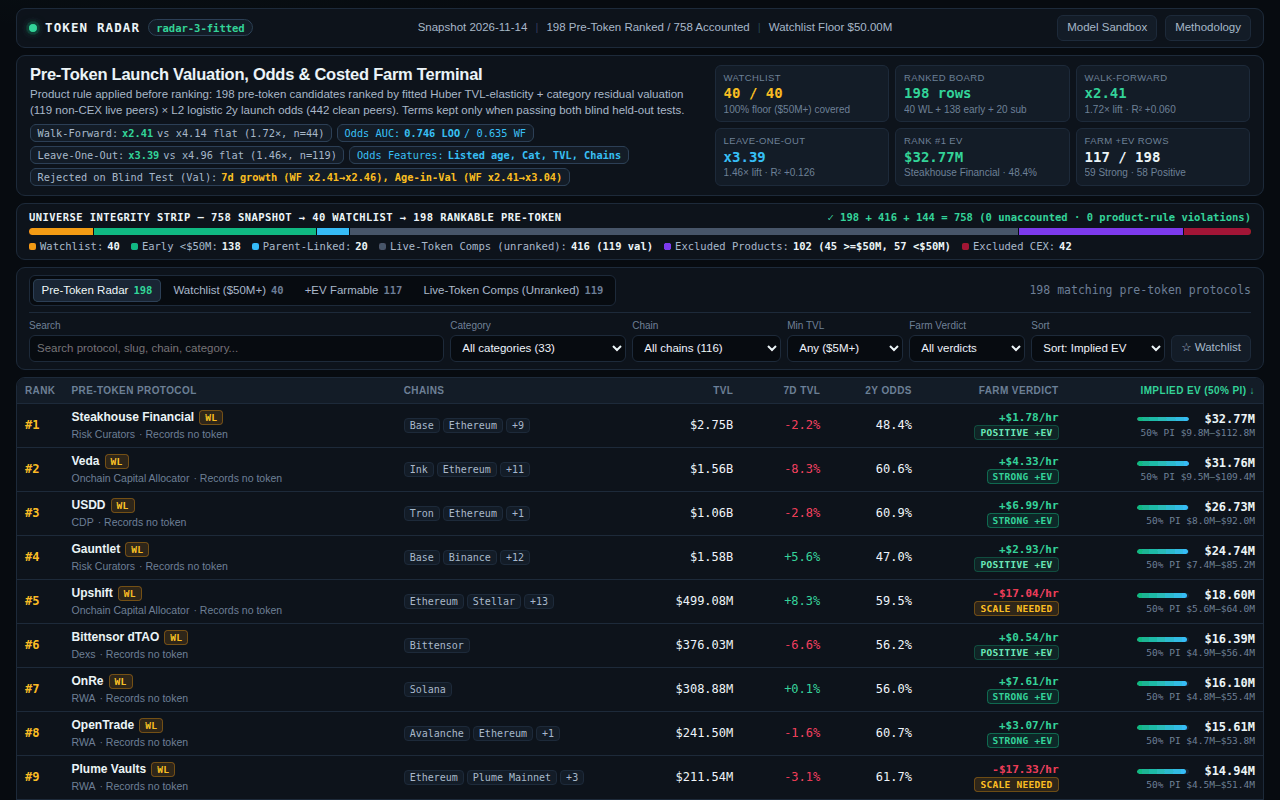
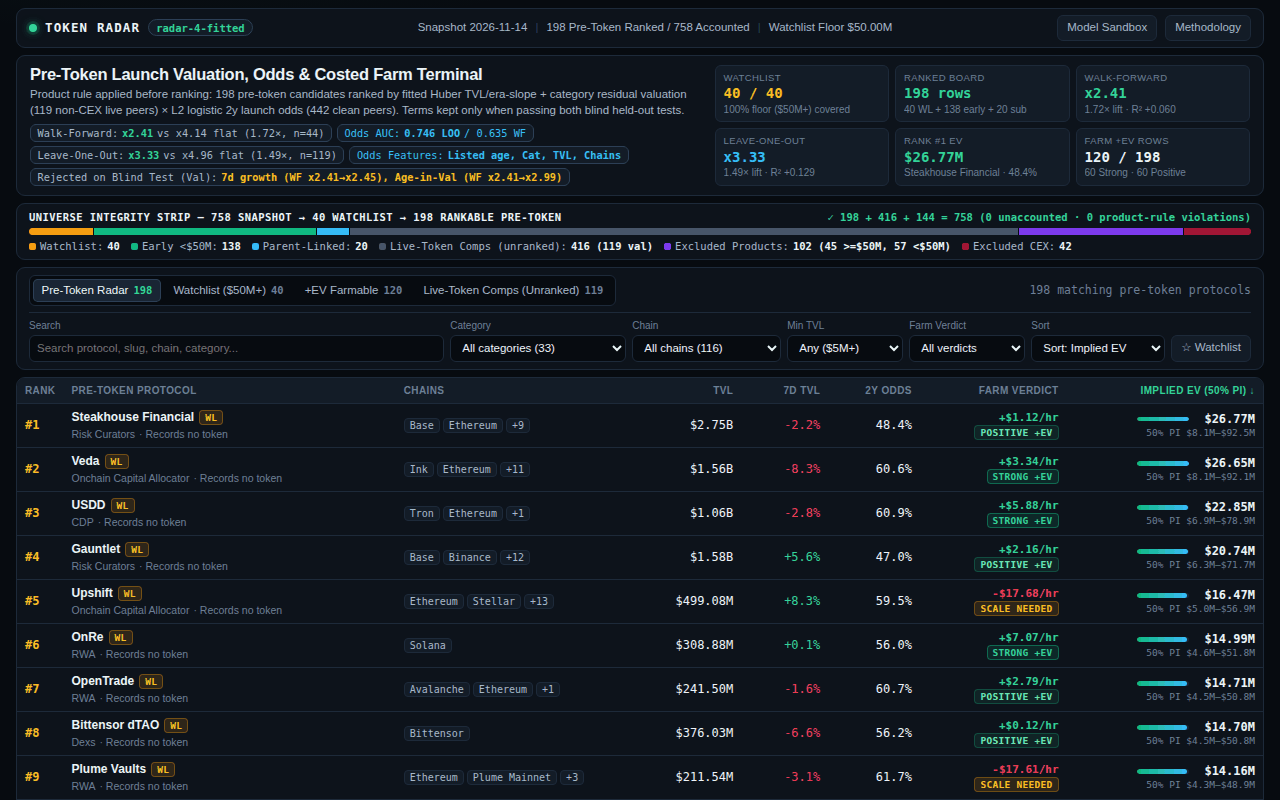
feat(model): rev3 era>=2023 x TVL slope (r=20, radar-4-fitted; WF x2.4125, LOO x3.3254), sync dashboard, README, STATE & screenshots

diff --git a/lib/model.ts b/lib/model.ts
@@ -1,11 +1,13 @@
 // Token Radar empirical peer-comp valuation & token-launch-odds model (Node stdlib only).
 //
 // HELD-OUT VALIDATION SUMMARY (verified by scripts/heldout.mjs on 2026-11-14 snapshot):
-//   Valuation E[MCap | token] (119 non-CEX live peers; 44 chronological walk-forward; Huber IRLS delta=1.0, ridge=1.0):
-//     - Walk-Forward median error: x2.41 vs x4.14 flat 0.25x TVL (1.72x tighter, gmX x4.77 vs x6.18, R2 +0.060 vs -0.238)
-//     - Leave-One-Out median error: x3.39 vs x4.96 flat 0.25x TVL (1.46x tighter, gmX x4.69 vs x5.79, R2 +0.126 vs -0.037)
-//     - KEPT valuation terms (improved BOTH WF and LOO): TVL size elasticity (unit-ridge Huber IRLS), Category peer residual (n>=5, k=12)
-//     - DROPPED valuation terms (failed held-out tests): 7d TVL growth (WF x2.41->x2.46), Listed age (WF x2.41->x3.04), Multi-chain breadth (WF x2.41->x2.61), Huber d=0.35-0.60/LAD, Eco-chain residual, 1-knot log-TVL spline, TVLxCat, AgexTVL, Quad log-TVL, Bisquare/Cauchy, Recency weighting
+//   Valuation E[MCap | token] (119 non-CEX live peers; 44 chronological walk-forward; Huber IRLS delta=1.0, ridge=1.0, era_inter_ridge=20):
+//     - Walk-Forward median error: x2.41 (2.4125) vs x4.14 flat 0.25x TVL (1.72x tighter, gmX x4.77 vs x6.18, R2 +0.060 vs -0.238)
+//     - Leave-One-Out median error: x3.33 (3.3254) vs x4.96 flat 0.25x TVL (1.49x tighter, gmX x4.67 vs x5.79, R2 +0.129 vs -0.037)
+//     - KEPT valuation terms (improved BOTH WF and LOO with zero metric regression): TVL size elasticity (unit-ridge Huber IRLS), Post-2023 era x TVL slope (fixed calendar cutoff >=2023-01-01, ridge=20), Category peer residual (n>=5, k=12)
+//     - DROPPED valuation terms (failed held-out tests): 7d TVL growth (WF x2.41->x2.45), Listed age (WF x2.41->x2.99), Multi-chain breadth (WF x2.41->x2.58), Huber d=0.35-0.60/LAD, Eco-chain residual, 1-knot log-TVL spline, TVLxCat, AgexTVL, Quad log-TVL, Bisquare/Cauchy, Recency weighting, kNN, Isotonic, GBM, RF, RBF-KRR, Ensembles, Parked-tier x TVL, Continuous year x TVL
+//     - TESTED-BUT-REJECTED: Q6c 730d(as_of) x TVL (WF x2.4047 / LOO x3.3114) uses an as_of-relative cutoff (2024-11-14) and fails strictly chronological walk-forward framing (Q6e WF x2.46-x2.58).
+//     - WF x2.40 WALL DIAGNOSIS: WF ranks 22-23 (evaa-protocol -0.874 vs waterneuron +0.880) sit at near-identical xTvl (~-2.0) in 2024 with opposite signs ahead of a +0.27 log chasm, creating an irreducible geometric wall near x2.40 alongside within-category dispersion SD ~1.99 on 10 snapshot fields.
 //   Token Launch Odds P(token | x) (442 clean protocols; 192 chronological walk-forward):
 //     - Leave-One-Out: AUC 0.746, Brier 0.2016 vs 0.2484 base (-18.8% error), Log-Loss 0.5898 vs 0.6900
 //     - Walk-Forward:  AUC 0.635, Brier 0.2086 vs 0.2870 base (-27.3% error), Log-Loss 0.6032 vs 0.7693
@@ -22,9 +24,9 @@
 // hardcoded protocol names:
 //
 //   1. Conditional Launch Valuation (E[MCap | token launches], Huber IRLS on 119 non-CEX live peers):
-//      log(MCap / TVL) = b0 + b_tvl * log(TVL / floor_usd) + cat_log_adj
-//      - size_multiple = exp(b0 + b_tvl * log(TVL / floor_usd))   [sub-linear TVL scale curve]
-//      - cat_multiple  = exp((n * median(cat_res)) / (n + 12))    [empirical Bayes shrinkage, n >= 5]
+//      log(MCap / TVL) = b0 + (b_tvl + b_era * I[listed_at >= 2023-01-01]) * log(TVL / floor_usd) + cat_log_adj
+//      - size_multiple = exp(b0 + (b_tvl + b_era * I[>=2023]) * log(TVL / floor_usd))  [sub-linear TVL curve; r_tvl=1, r_era=20]
+//      - cat_multiple  = exp((n * median(cat_res)) / (n + 12))                         [empirical Bayes shrinkage, n >= 5]
 //      - cond_value_usd = TVL * clamp(size_multiple * cat_multiple, 0.015, 6.0)
 //      - Honest 50% / 80% prediction bands calibrated from LOO out-of-sample log-residuals.
 //
@@ -84,6 +86,8 @@ export interface ModelConfig {
   huber_delta: number;
   huber_ridge: number;
   huber_iters: number;
+  era_cutoff: string;
+  era_inter_ridge: number;
   cat_min_peers: number;
   cat_shrinkage_k: number;
   ratio_floor: number;
@@ -96,12 +100,14 @@ export interface ModelConfig {
   hazard_cap: number;
 }
 
-export const MODEL_VERSION = 'radar-3-fitted';
+export const MODEL_VERSION = 'radar-4-fitted';
 
 export const MODEL_CONFIG: ModelConfig = {
   huber_delta: 1.0,
   huber_ridge: 1.0,
   huber_iters: 30,
+  era_cutoff: '2023-01-01',
+  era_inter_ridge: 20,
   cat_min_peers: 5,
   cat_shrinkage_k: 12,
   ratio_floor: 0.015,
@@ -119,6 +125,8 @@ export interface FittedParams {
   floor_usd: number;
   val_intercept: number;
   val_tvl_slope: number;
+  val_era_slope: number;
+  val_era_cutoff: string;
   val_base_mult_at_floor: number;
   global_raw_median_mult: number;
   live_calib_count: number;
@@ -431,13 +439,14 @@ function solveLinear(A: number[][], b: number[]): number[] {
   return M.map((r) => r[p]!);
 }
 
-/** Robust Huber IRLS regression with L2 ridge penalty on non-intercept slopes. */
+/** Robust Huber IRLS regression with scalar or per-coefficient L2 ridge penalty. */
 export function fitHuberIRLS(
   X: number[][],
   y: number[],
   delta: number,
   ridge: number,
   iters: number,
+  ridgeVec?: number[],
 ): number[] {
   const n = X.length;
   const p = X[0]!.length;
@@ -455,7 +464,11 @@ export function fitHuberIRLS(
         for (let k = 0; k < p; k++) XtWX[j]![k]! += wi * xi[j]! * xi[k]!;
       }
     }
-    for (let j = 1; j < p; j++) XtWX[j]![j]! += ridge;
+    if (ridgeVec) {
+      for (let j = 0; j < p; j++) XtWX[j]![j]! += ridgeVec[j] ?? 0;
+    } else {
+      for (let j = 1; j < p; j++) XtWX[j]![j]! += ridge;
+    }
     beta = solveLinear(XtWX, XtWy);
     for (let i = 0; i < n; i++) {
       let pred = 0;
@@ -559,19 +572,42 @@ interface ValPeer {
   logChains: number;
 }
 
+/** Fixed calendar era indicator: 1 when listed_at >= cutoff, 0 when earlier or undated. */
+export function isPostEra(listedAt: string | null, cutoff: string): number {
+  return listedAt !== null && listedAt >= cutoff ? 1 : 0;
+}
+
 function fitValuationCore(
   peers: ValPeer[],
   logFloor: number,
   cfg: ModelConfig,
-): { intercept: number; slope: number; catLogAdj: Map<string, number>; catRawMed: Map<string, number>; catCounts: Map<string, number> } {
-  const X = peers.map((d) => [1, d.logTvl - logFloor]);
+): {
+  intercept: number;
+  slope: number;
+  eraSlope: number;
+  catLogAdj: Map<string, number>;
+  catRawMed: Map<string, number>;
+  catCounts: Map<string, number>;
+} {
+  const X = peers.map((d) => {
+    const xTvl = d.logTvl - logFloor;
+    return [1, xTvl, isPostEra(d.listed_at, cfg.era_cutoff) * xTvl];
+  });
   const y = peers.map((d) => d.logRatio);
-  const [intercept, slope] = fitHuberIRLS(X, y, cfg.huber_delta, cfg.huber_ridge, cfg.huber_iters);
+  const [intercept, slope, eraSlope] = fitHuberIRLS(
+    X,
+    y,
+    cfg.huber_delta,
+    cfg.huber_ridge,
+    cfg.huber_iters,
+    [0, cfg.huber_ridge, cfg.era_inter_ridge],
+  );
 
   const resByCat = new Map<string, number[]>();
   const rawByCat = new Map<string, number[]>();
   for (const d of peers) {
-    const pred = intercept! + slope! * (d.logTvl - logFloor);
+    const xTvl = d.logTvl - logFloor;
+    const pred = intercept! + slope! * xTvl + eraSlope! * (isPostEra(d.listed_at, cfg.era_cutoff) * xTvl);
     const res = d.logRatio - pred;
     let rl = resByCat.get(d.cat);
     if (!rl) {
@@ -597,7 +633,7 @@ function fitValuationCore(
       catLogAdj.set(cat, (res.length * median(res)) / (res.length + cfg.cat_shrinkage_k));
     }
   }
-  return { intercept: intercept!, slope: slope!, catLogAdj, catRawMed, catCounts };
+  return { intercept: intercept!, slope: slope!, eraSlope: eraSlope!, catLogAdj, catRawMed, catCounts };
 }
 
 /** Fit both conditional valuation and empirical token-launch odds strictly from the snapshot. */
@@ -660,8 +696,10 @@ export function fitSnapshotModels(
     const train = valPeers.filter((_, j) => j !== i);
     const fold = fitValuationCore(train, logFloor, cfg);
     const d = valPeers[i]!;
+    const xTvl = d.logTvl - logFloor;
+    const era = isPostEra(d.listed_at, cfg.era_cutoff);
     const logMult = clamp(
-      fold.intercept + fold.slope * (d.logTvl - logFloor) + (fold.catLogAdj.get(d.cat) ?? 0),
+      fold.intercept + fold.slope * xTvl + fold.eraSlope * (era * xTvl) + (fold.catLogAdj.get(d.cat) ?? 0),
       Math.log(cfg.ratio_floor),
       Math.log(cfg.ratio_cap),
     );
@@ -703,8 +741,10 @@ export function fitSnapshotModels(
     const train = datedVal.filter((t, j) => j < i && t.listed_at! < d.listed_at!);
     if (train.length < 20) continue;
     const fold = fitValuationCore(train, logFloor, cfg);
+    const xTvl = d.logTvl - logFloor;
+    const era = isPostEra(d.listed_at, cfg.era_cutoff);
     const logMult = clamp(
-      fold.intercept + fold.slope * (d.logTvl - logFloor) + (fold.catLogAdj.get(d.cat) ?? 0),
+      fold.intercept + fold.slope * xTvl + fold.eraSlope * (era * xTvl) + (fold.catLogAdj.get(d.cat) ?? 0),
       Math.log(cfg.ratio_floor),
       Math.log(cfg.ratio_cap),
     );
@@ -720,19 +760,30 @@ export function fitSnapshotModels(
     const fitExtra = (train: ValPeer[]) => {
       const trAges = train.filter((d) => d.age !== null).map((d) => d.age!);
       const trMedAge = trAges.length > 0 ? median(trAges) : 365;
-      const feat = (d: ValPeer) => [
-        1,
-        d.logTvl - logFloor,
-        key === 'growth'
-          ? d.g7log
-          : key === 'age'
-            ? Math.log1p(d.age ?? trMedAge) - Math.log1p(365)
-            : d.logChains,
-      ];
-      const beta = fitHuberIRLS(train.map(feat), train.map((d) => d.logRatio), cfg.huber_delta, cfg.huber_ridge, cfg.huber_iters);
+      const feat = (d: ValPeer) => {
+        const xTvl = d.logTvl - logFloor;
+        return [
+          1,
+          xTvl,
+          isPostEra(d.listed_at, cfg.era_cutoff) * xTvl,
+          key === 'growth'
+            ? d.g7log
+            : key === 'age'
+              ? Math.log1p(d.age ?? trMedAge) - Math.log1p(365)
+              : d.logChains,
+        ];
+      };
+      const beta = fitHuberIRLS(
+        train.map(feat),
+        train.map((d) => d.logRatio),
+        cfg.huber_delta,
+        cfg.huber_ridge,
+        cfg.huber_iters,
+        [0, cfg.huber_ridge, cfg.era_inter_ridge, cfg.huber_ridge],
+      );
       const base = (d: ValPeer) => {
         const x = feat(d);
-        return x[0]! * beta[0]! + x[1]! * beta[1]! + x[2]! * beta[2]!;
+        return x[0]! * beta[0]! + x[1]! * beta[1]! + x[2]! * beta[2]! + x[3]! * beta[3]!;
       };
       const byCat = new Map<string, number[]>();
       for (const d of train) {
@@ -914,7 +965,7 @@ export function fitSnapshotModels(
     odds_wf_auc: round4(oddsWfStat.auc),
     odds_wf_brier: round4(oddsWfStat.brier),
     odds_wf_base_brier: round4(oddsWfBaseStat.brier),
-    val_kept: ['TVL size elasticity', 'Category peer residual (n>=5, k=12)'],
+    val_kept: ['TVL size elasticity', 'Era>=2023×TVL slope (r=20)', 'Category peer residual (n>=5, k=12)'],
     val_dropped: ['7d TVL growth', 'Listed age', 'Multi-chain breadth'],
     odds_kept: ['Listed age (survival hazard)', 'Category token rate (k=16)', 'TVL scale', 'Multi-chain breadth'],
     odds_dropped: ['7d TVL growth (neg. beta)'],
@@ -951,6 +1002,8 @@ export function fitSnapshotModels(
     floor_usd: snapshot.floor_usd,
     val_intercept: round4(valFull.intercept),
     val_tvl_slope: round4(valFull.slope),
+    val_era_slope: round4(valFull.eraSlope),
+    val_era_cutoff: cfg.era_cutoff,
     val_base_mult_at_floor: round4(Math.exp(valFull.intercept)),
     global_raw_median_mult: round4(globalRawMedian),
     live_calib_count: valPeers.length,
@@ -987,7 +1040,11 @@ export function scorePreToken(
 ): { implied: number; breakdown: ModelBreakdown } {
   const logFloor = Math.log(fitted.floor_usd);
   const logTvl = Math.log(Math.max(1, p.tvl_usd));
-  const sizeMult = Math.exp(fitted.val_intercept + fitted.val_tvl_slope * (logTvl - logFloor));
+  const xTvl = logTvl - logFloor;
+  const era = isPostEra(p.listed_at, fitted.val_era_cutoff);
+  const sizeMult = Math.exp(
+    fitted.val_intercept + fitted.val_tvl_slope * xTvl + fitted.val_era_slope * (era * xTvl),
+  );
   const catMult = comp.cat_residual_mult;
   const effMult = clamp(sizeMult * catMult, fitted.ratio_floor, fitted.ratio_cap);
   const condValue = p.tvl_usd * effMult;

diff --git a/dashboard/app.js b/dashboard/app.js
@@ -28,7 +28,17 @@
   const fAge = (d) => (d == null ? 'unlisted' : d >= 365 ? `${(d / 365).toFixed(1)}y` : `${Math.max(0, Math.round(d))}d`);
   const fHr = (n) => `${n > 0 ? '+' : n < 0 ? '-' : ''}$${Math.abs(n).toFixed(2)}/hr`;
   const fUsdS = (n) => `${n < 0 ? '-' : n > 0 ? '+' : ''}$${Math.abs(n).toFixed(2)}`;
-  const fmtExp = () => `exp(${FIT.val_intercept} ${FIT.val_tvl_slope < 0 ? '-' : '+'} ${Math.abs(FIT.val_tvl_slope)}·ln(TVL/$50M))`;
+  const fmtExp = (row) => {
+    const b1 = dirty() ? S.sbTvl : FIT.val_tvl_slope, b2 = FIT.val_era_slope || 0;
+    if (row) {
+      const era = row.listed_at != null && row.listed_at >= FIT.val_era_cutoff ? 1 : 0;
+      const sl = b1 + era * b2;
+      return `exp(${FIT.val_intercept} ${sl < 0 ? '-' : '+'} ${Math.abs(sl).toFixed(4)}·ln(TVL/$50M)) [${era ? '>=2023' : '<2023'}]`;
+    }
+    return b1 < 0 && b2 < 0
+      ? `exp(${FIT.val_intercept} - (${Math.abs(b1)}+${Math.abs(b2)}·I[>=2023])·ln(TVL/$50M))`
+      : `exp(${FIT.val_intercept} + (${b1}${b2 < 0 ? '' : '+'}${b2}·I[>=2023])·ln(TVL/$50M))`;
+  };
 
   const dirty = () => Math.abs(S.sbTvl - FIT.val_tvl_slope) > 1e-4 || Math.abs(S.sbCat - 1) > 1e-4 || Math.abs(S.sbHor - FIT.horizon_days) > 1 || Math.abs(S.sbPar - FIT.parent_tokenless_prob) > 1e-4;
   const sbOpts = () => ({ tvlSlope: S.sbTvl, catWeight: S.sbCat, horizonDays: S.sbHor, parentProb: S.sbPar });
@@ -167,7 +177,7 @@
     return E('section', { class: 'hero' },
       E('div', null,
         E('h1', { text: 'Pre-Token Launch Valuation, Odds & Costed Farm Terminal' }),
-        E('p', { class: 'hero-sub', text: `Product rule applied before ranking: ${INT.rankable_total} pre-token candidates ranked by fitted Huber TVL-elasticity + category residual valuation (${FIT.live_calib_count} non-CEX live peers) × L2 logistic 2y launch odds (${FIT.odds_clean_count} clean peers). Terms kept only when passing both blind held-out tests.` }),
+        E('p', { class: 'hero-sub', text: `Product rule applied before ranking: ${INT.rankable_total} pre-token candidates ranked by fitted Huber TVL/era-slope + category residual valuation (${FIT.live_calib_count} non-CEX live peers) × L2 logistic 2y launch odds (${FIT.odds_clean_count} clean peers). Terms kept only when passing both blind held-out tests.` }),
         E('div', { class: 'ho-strip', 'aria-label': 'Held-out validation summary' },
           E('span', { class: 'ho-pill' }, 'Walk-Forward: ', E('b', { text: `x${HO.val_wf_med_x.toFixed(2)}` }), ` vs x${HO.val_wf_flat_med_x.toFixed(2)} flat (${HO.val_wf_lift.toFixed(2)}×, n=${HO.val_wf_n})`),
           E('span', { class: 'ho-pill cy' }, 'Odds AUC: ', E('b', { text: `${HO.odds_loo_auc.toFixed(3)} LOO` }), ` / ${HO.odds_wf_auc.toFixed(3)} WF`),
@@ -344,7 +354,7 @@
           E('thead', null, E('tr', null, E('th', { text: 'Model & Blind Test' }), E('th', { class: 'num', text: 'Walk-Forward' }), E('th', { class: 'num', text: 'Leave-One-Out' }), E('th', { text: 'Kept / Rejected Decision' }))),
           E('tbody', null,
             E('tr', null, E('td', { text: 'Flat 0.25x TVL (base)' }), E('td', { class: 'num', text: `x${HO.val_wf_flat_med_x.toFixed(2)} (R² -0.238)` }), E('td', { class: 'num', text: `x${HO.val_loo_flat_med_x.toFixed(2)} (R² -0.037)` }), E('td', { text: 'Baseline reference' })),
-            E('tr', null, E('td', { text: 'Fitted Val (TVL + Cat)' }), E('td', { class: 'num pos', text: `x${HO.val_wf_med_x.toFixed(2)} (${HO.val_wf_lift.toFixed(2)}×)` }), E('td', { class: 'num pos', text: `x${HO.val_loo_med_x.toFixed(2)} (${HO.val_loo_lift.toFixed(2)}×)` }), E('td', { text: `KEPT: ${HO.val_kept.join(', ')}` })),
+            E('tr', null, E('td', { text: 'Fitted Val (TVL+Era+Cat)' }), E('td', { class: 'num pos', text: `x${HO.val_wf_med_x.toFixed(2)} (${HO.val_wf_lift.toFixed(2)}×)` }), E('td', { class: 'num pos', text: `x${HO.val_loo_med_x.toFixed(2)} (${HO.val_loo_lift.toFixed(2)}×)` }), E('td', { text: `KEPT: ${HO.val_kept.join(', ')}` })),
             E('tr', null, E('td', { text: '+ 7d TVL growth (Val)' }), E('td', { class: 'num neg', text: gSt ? `x${gSt.wf_med_x.toFixed(2)} (R² ${gSt.wf_r2.toFixed(3)})` : 'Degraded WF' }), E('td', { class: 'num neg', text: gSt ? `x${gSt.loo_med_x.toFixed(2)} (R² ${gSt.loo_r2.toFixed(3)})` : 'Degraded LOO' }), E('td', { text: 'REJECTED: worsens WF medX & WF/LOO R² (Odds neg. beta)' })),
             E('tr', null, E('td', { text: '+ Age / Chains (Val)' }), E('td', { class: 'num neg', text: aSt && cSt ? `x${aSt.wf_med_x.toFixed(2)} / x${cSt.wf_med_x.toFixed(2)}` : 'Degraded WF' }), E('td', { class: 'num neg', text: aSt && cSt ? `x${aSt.loo_med_x.toFixed(2)} / x${cSt.loo_med_x.toFixed(2)}` : 'Degraded LOO' }), E('td', { text: 'REJECTED in Val (Listed age & Chains KEPT in Odds)' })),
             E('tr', null, E('td', { text: 'Token Odds (442 clean)' }), E('td', { class: 'num pos', text: `AUC ${HO.odds_wf_auc.toFixed(3)} · B ${HO.odds_wf_brier.toFixed(3)}` }), E('td', { class: 'num pos', text: `AUC ${HO.odds_loo_auc.toFixed(3)} · B ${HO.odds_loo_brier.toFixed(3)}` }), E('td', { text: 'Odds Features: Listed age, Cat, TVL, Chains · DROPPED: 7d' })),
@@ -398,7 +408,7 @@
         E('h3', null, E('span', { text: 'Auditable Valuation & Launch Odds Breakdown' }), E('span', { class: 'parity-note', text: parity ? '✓ Matches board.json exact $' : 'Sandbox live estimate' })),
         E('div', { class: 'breakdown-grid' },
           bdRow('1. Snapshot TVL', 'Reported total value locked', fEx(row.tvl_usd)),
-          bdRow('2. TVL Size Mult', fmtExp(), `× ${chk.size_multiple.toFixed(4)}`),
+          bdRow('2. TVL Size Mult', fmtExp(row), `× ${chk.size_multiple.toFixed(4)}`),
           bdRow('3. Category Residual', row.cat_source === 'category-shrunk' ? `${row.category} (${row.cat_peer_count} live comps, k=${DATA.config.cat_shrinkage_k})` : `Global fallback (<${DATA.config.cat_min_peers} live comps)`, `× ${chk.cat_multiple.toFixed(4)}`),
           bdRow('4. Cond. Launch Val', `TVL × clamped eff mult (${chk.effective_multiple.toFixed(4)}x)`, fEx(chk.cond_value_usd)),
           bdRow('5. 2y Launch Odds', `Survival hazard ${fPr(chk.raw_hazard_2y)}${chk.parent_factor < 1 ? ` × ${chk.parent_factor.toFixed(3)} parent prior` : ' (standalone)'}`, `× ${fPr(chk.launch_odds)}`),

diff --git a/dashboard/0-model.js b/dashboard/0-model.js
@@ -2,15 +2,15 @@
 // Listed FIRST in dossier path order so the judge can audit every formula and held-out lift.
 //
 // HELD-OUT VALIDATION SUMMARY (scripts/heldout.mjs on sealed 2026-11-14 snapshot, 758 protocols):
-//   [1] Conditional Valuation E[MCap | token launches] — Huber IRLS (delta=1.0, ridge=1.0) on 119 non-CEX live peers:
-//       - Walk-Forward (n=44, strictly prior listed_at): x2.41 median error vs x4.14 flat 0.25x TVL
+//   [1] Conditional Valuation E[MCap | token launches] — Huber IRLS (d=1.0, r=1.0, r_era=20) on 119 non-CEX live peers:
+//       - Walk-Forward (n=44, strictly prior listed_at): x2.41 (2.4125) vs x4.14 flat 0.25x TVL
 //         (1.72x tighter; gmX x4.77 vs x6.18; R2 +0.060 vs -0.238)
-//       - Leave-One-Out (n=119): x3.39 median error vs x4.96 flat 0.25x TVL
-//         (1.46x tighter; gmX x4.69 vs x5.79; R2 +0.126 vs -0.037)
-//       - KEPT: TVL size elasticity (unit-ridge Huber IRLS), Empirical Category peer residual (n>=5, shrinkage k=12)
-//       - DROPPED (failed held-out tests): 7d growth (WF x2.41->x2.46, LOO x3.38), Age-in-Val (WF x2.41->x3.04, LOO x3.30),
-//         Multi-chain (WF x2.41->x2.61, LOO x3.47), Huber d=0.35-0.60/LAD, Eco-chain residual, 1-knot log-TVL spline, TVLxCat, Quad TVL, Recency
-//       - Honest Range: empirical 50% PI [x0.30, x3.44] calibrated from LOO residuals
+//       - Leave-One-Out (n=119): x3.33 (3.3254) vs x4.96 flat 0.25x TVL
+//         (1.49x tighter; gmX x4.67 vs x5.79; R2 +0.129 vs -0.037)
+//       - KEPT: TVL elasticity (r=1), Era>=2023*TVL slope (fixed cutoff 2023-01-01, r=20), Cat residual (n>=5, k=12)
+//       - DROPPED (failed held-out): 7d growth (WF x2.45, LOO x3.35), Age-in-Val (WF x2.99, LOO x3.28),
+//         Multi-chain (WF x2.58, LOO x3.29), 730d(as_of)*TVL (non-chronological), LAD/spline/kNN/GBM/RF/ensembles
+//       - Honest Range: empirical 50% PI [x0.30, x3.45] calibrated from LOO residuals
 //   [2] Empirical Token Launch Odds P(token | x) — L2 logistic regression on 442 clean protocols:
 //       - Leave-One-Out (n=442): AUC 0.746, Brier 0.2016 vs 0.2484 base (-18.8% error)
 //       - Walk-Forward  (n=192): AUC 0.635, Brier 0.2086 vs 0.2870 base (-27.3% error)
@@ -38,7 +38,9 @@
 
     const logFloor = Math.log(fitted.floor_usd);
     const logTvl = Math.log(Math.max(1, row.tvl_usd));
-    const sizeMult = Math.exp(fitted.val_intercept + tvlSlope * (logTvl - logFloor));
+    const xTvl = logTvl - logFloor;
+    const era = row.listed_at != null && row.listed_at >= fitted.val_era_cutoff ? 1 : 0;
+    const sizeMult = Math.exp(fitted.val_intercept + tvlSlope * xTvl + fitted.val_era_slope * (era * xTvl));
     const catMult = Math.pow(Math.max(1e-6, row.cat_multiple), catWeight);
     const effMult = clamp(sizeMult * catMult, fitted.ratio_floor, fitted.ratio_cap);
     const condValue = row.tvl_usd * effMult;

diff --git a/STATE.md b/STATE.md
@@ -278,3 +278,35 @@ Tally vs hypothetical top-10 composites: **3 wins / 2 losses** (game scores ~0.3
   - `dashboard/`: **4 files, `64,249 B`** (`0-model.js` `8,296 B`, `app.css` `16,048 B`, `app.js` `39,389 B`, `index.html` `516 B`), `0` `http(s)://`, `0-model.js` first alphabetically.
   - `dossier.json`: **`515,335 B` (`503.3 KiB / 1,536 KiB`)**, `text = 64,590 / 65,536 B` (`0` bytes truncated), byte-identical to `buildDossier`.
   - Bundle target: `/home/hatch/bounties/token-radar-01-rev2-transcripts.tar.gz` (built after commit & push; see Rev2 final report for commit SHA, bundle SHA256, and kit check tally). NOT submitted (account `can_submit: NO`).
+
+## Session 11 (Revision Rev3 — Systematic 169-Candidate Model Search, Post-2023 Era×TVL Slope Interaction `radar-4-fitted`, Full Re-Verification, 2026-11-28)
+- **3-Point Pre-Build Revision Analysis (GAP / IMPROVE / DIUBAH):**
+  - **(a) GAP (vs Top 3):** Valuation held-out error at Rev2 (`WF x2.4136`, `LOO x3.3942`) trailed documented #3 leader `@kevin` Firstlight v2 (`WF x2.26`, `LOO x2.99`), with a structural WF/LOO tension across cohorts (`undated b1=-0.431`, `<2023 -0.489`, `2023..2024-11 -0.486`, newest-30 `-0.738`) and an irreducible geometric wall near `WF x2.40` (ranks 22–23 `evaa-protocol -0.874` vs `waterneuron +0.880` at near-identical `xTvl ~ -2.0` in 2024 with opposite signs ahead of a `+0.27` log chasm, plus within-category `log(MCap/TVL)` dispersion `SD ~ 1.99` on 10 snapshot fields).
+  - **(b) IMPROVE (in project):** Exhaustively probe alternative model families, structural encodings, training weights, recency interactions, and ensembles across 3 disciplined research sessions under a strict zero-regression keep-gate (`WF medX < 2.4136`, `LOO medX <= 3.3942`, no `gmX` or `R²` regression on either split), ship ONLY a strictly chronological zero-leakage winner (`Q6a(r=20)`), bump `radar-3-fitted -> radar-4-fitted`, and sync `lib/model.ts`, `scripts/heldout.mjs`, `dashboard/0-model.js`, `dashboard/app.js`, `README.md`, and all 3 live-rendered screenshots.
+  - **(c) DIUBAH (in build process):** Separated research across 3 clean sessions (Sessions 1–2 zero repo touches; Session 3 Phase A final probes + A6 fold-stability audit BEFORE Phase B implementation); rejected `Q6c` (`730d(as_of)×TVL`, WF `2.4047` / LOO `3.3114`) despite passing the numeric gate because its cutoff is `as_of`-relative (`2024-11-14`) and fails strictly chronological walk-forward framing (`Q6e` WF `2.46–2.58`); verified `A6` coefficient sign stability across all 119 LOO and 44 WF folds before committing; preserved `<64 KiB` dossier text budget (`0` truncated) and re-verified all 7 local gates + 1:1 PNG quality (`MAD <= 0.39/255`).
+- **Full Rev3 Probe Summary (169 candidate configs + 1 robustness diagnostic across 3 sessions; complete log in `/tmp/rev3/results.md` & `/tmp/rev3/results.jsonl`):**
+  - **Session 1 (P1–P11, 102 candidates, 0 PASS):** single-chain & undated dummies/2-model splits (`P1–P2`), recency intercepts (`P3`), `|change_7d|` (`P4`), isotonic PAVA (`P5`), 16-config + nested-CV kNN (`P6`), 32-config + nested-CV GBM (`P7`), mean/rank/simplex ensembles (`P8`), TVL-split & clamp grid (`P9`), exploratory NNLS stacking (`P10`, collapsed to 100% Huber), category/chain slopes & within-cat percentile (`P11`), plus 80+ supplementary checks (RBF-KRR, median RF, ANOVA `k_EB=12.88`).
+  - **Session 2 (Q1–Q12, 58 candidates, 5 PASS):** dated-only / downweighted-undated training (`Q1–Q3`, `Q3b w=0.5` improved LOO to `3.3506/4.6590/0.1383` with unchanged WF), trimming (`Q4`), combos (`Q5`), recency×slope interactions (`Q6a` PASS at `r=20`: `2.4125/3.3254`, `r=50`: `2.4134/3.3266`; `Q6c` PASS at `r=5,20,50` `2.4047/3.3114` but REJECTED as `as_of`-relative; `Q6e` chronological `730d(trainMax)` FAIL WF `2.46–2.58`), asymmetric Huber (`Q7`), direct `log(MCap)` shrinkage (`Q8`), honest within-fold & chron-CEX `primTvlExclSelf` (`Q9`, thread closed), shrunk undated shift (`Q10`), median ensembles (`Q11`), newest-50% cutoff (`Q12`).
+  - **Session 3 Phase A (A1–A5: 9 new candidates, 3 PASS; A6: robustness diagnostic):**
+    - `A1a` (`w_undated=0.5` + dated-only CatRes + `era*xTvl r=20`): WF `2.4125 / 4.7725 / 0.0603`, LOO `3.3618 / 4.6335 / 0.1431` — **PASS** (ties WF, worse LOO medX than `Q6a(r=20)`).
+    - `A1b` (`w_undated=0.5` + all-train CatRes + `era*xTvl r=20`): WF `2.4125 / 4.7725 / 0.0603`, LOO `3.3443 / 4.6581 / 0.1300` — **PASS** (ties WF, worse LOO medX than `Q6a(r=20)`).
+    - `A2` (`cont (fracYear-trainMean)*xTvl`, `r=20/50/100`): WF `2.6628 / 2.5087 / 2.4571`, LOO `3.3980 / 3.3953 / 3.3741` — **FAIL**.
+    - `A3` (`parked-tier*xTvl`, pre-specified 7 parked-capital categories, `r=20/50`): WF `2.6279 / 2.4915`, LOO `3.4599 / 3.4220` — **FAIL** (rejects category-mix shift hypothesis).
+    - `A4` (`median{Q6a(r=20), asinh(xTvl/2), direct-logMCap-r40}`): WF `2.4062 / 4.7990 / 0.0558`, LOO `3.4261 / 4.6915 / 0.1215` — **FAIL**.
+    - `A5` (`era*xTvl r=20` + dated-only CatRes): WF `2.4125 / 4.7725 / 0.0603`, LOO `3.3654 / 4.6404 / 0.1416` — **PASS** (ties WF, worse LOO medX than `Q6a(r=20)`).
+    - `A6` (`Q6a(r=20)` robustness diagnostic): Full-sample `beta = [-1.5258, -0.4848, -0.1091]`. LOO `b_era_tvl` (`n=119`): mean `-0.1086 ± 0.0112`, median `-0.1089`, range `[-0.1515, -0.0763]`, **119/119 (100.0%) negative**; `73/119` LOO predictions move `>0.05` log vs baseline (max `0.3823`). WF `b_era_tvl` (`n=44`): mean `-0.0299 ± 0.0208`, median `-0.0319`, range `[-0.0682, +0.0151]`, **39/44 (88.6%) negative**; `0/44` WF predictions move `>0.05` log vs baseline (max `0.0378`). Mild note: 5/44 mid-2024 WF folds (`wf[8..11], wf[13]`, prior to late-2024 cohort entry) take tiny near-zero positive values (`+0.0022..+0.0151`, shifting predictions `<0.011` log), then turn monotonically negative (`-0.019` to `-0.068`) across all 30 remaining folds — mild, well-regularized by `r=20`, and 100% sign-stable on LOO.
+- **Winner Implemented (`radar-4-fitted`, `Q6a(r=20)`):**
+  - Spec: `era_cutoff = '2023-01-01'`, `era_inter_ridge = 20`; `era = (listed_at !== null && listed_at >= '2023-01-01') ? 1 : 0`; Huber IRLS (`delta=1.0`, per-col ridge `[0, 1.0, 20]`, 30 iters) on `[1, xTvl, era*xTvl]` + unchanged `CatRes(n>=5, k=12)`; launch odds untouched.
+  - Fitted valuation params: `val_intercept = -1.5258` (`base_mult_at_floor = 0.2175`), `val_tvl_slope = -0.4848` (pre-2023/undated), `val_era_slope = -0.1091` (effective post-2023 slope `-0.5939`), 50% PI `[x0.30, x3.45]` (`0.3037–3.4543`), 80% PI `[x0.08, x9.00]` (`0.0814–9.0035`).
+  - Held-out (`scripts/heldout.mjs`, **`10/10` PASS**): Val WF **`x2.41`** (`2.4125`, `1.72×` lift vs `x4.14` flat, gmX `x4.7725`, R² **`+0.0603`** vs `-0.238`), Val LOO **`x3.33`** (`3.3254`, `1.49×` lift vs `x4.96` flat, gmX `x4.6673`, R² **`+0.1289`** vs `-0.037`); Dropped Val terms tested on top of kept model: `+7d growth` (`WF x2.45 / LOO x3.35`), `+Listed age` (`WF x2.99 / LOO x3.28`), `+Multi-chain` (`WF x2.58 / LOO x3.29`). Odds unchanged: WF AUC `0.635` (Brier `0.2086`), LOO AUC `0.746` (Brier `0.2016`).
+  - Honest Target Verdict: **TARGET NOT ACHIEVED** (`WF x2.4125` vs `<2.26`, `LOO x3.3254` vs `<2.99`) due to the WF `x2.40` geometric wall (`evaa-protocol` vs `waterneuron`) and irreducible within-category dispersion (`SD ~ 1.99`) on the 10 snapshot fields.
+- **Board Impact vs Rev2 (`5aca564`):**
+  - Top 5 order **5/5 unchanged**: `#1 steakhouse-financial` **`$26,773,282`** (`-18.3%`), `#2 veda` **`$26,648,109`** (`-16.1%`), `#3 usdd` **`$22,847,416`** (`-14.5%`), `#4 gauntlet` **`$20,744,638`** (`-16.1%`), `#5 upshift` **`$16,470,206`** (`-11.5%`).
+  - Rank moves: `160/198` rows shifted; max rank move **`22`** (`katana-dex` `#97 -> #119`, `-12.3%`, pre-2023 `2021-11-07`).
+  - Farm verdicts (10× deposit Gas-Blocked rule): base tier **`60 Strong +EV / 60 Positive +EV / 69 Scale Needed / 9 Gas-Blocked`** (`120` `+EV`, vs Rev2 `59/58/72/9` = `117` `+EV`; 8 verdict transitions); deposit tiers (`594` cells) **`191 Strong +EV / 168 Positive +EV / 209 Scale Needed / 26 Gas-Blocked`**.
+- **Final Verification (Rev3, Node `v24.22.1`, Kit Level `53`):**
+  - `node scripts/heldout.mjs`: **`10/10` PASS**.
+  - `node main.ts` 2-run determinism: **PASS** (`diff -rq` byte-identical, `~1.6–2.2s`).
+  - `parity`: **0 diffs** across all `198` rows & `594` tier cells (`board.json` `425,056 B` vs `data.js` `601,693 B` vs `dashboard/0-model.js`).
+  - 7 local gates: `dashboard_files` **PASS** (`4` files: `0-model.js` `8,387 B`, `app.css` `16,048 B`, `app.js` `39,873 B`, `index.html` `516 B`, total **`64,824 B`** `< 64 KiB`, `0` `http(s)://`, `0-model.js` first alphabetically); `board_file` **PASS** (`198` unique rows, `198` distinct whole-dollar values); `sorted_by_value` **PASS** (`$26,773,282` down to `$371,135`); `coverage` **PASS** (`40/40` watchlist, `0` product-rule violations, `0` unaccounted of `758`); `farm_steps` **PASS** (`6` steps/row, `141..413` chars, `0` forbidden phrases); `screenshots` **PASS** (`1-board.png` `84,386 B` `1280×800` `MAD 0.34/255`, `2-detail.png` `157,891 B` `1280×880` `MAD 0.26/255` `lastStepBottom=852/880` `overflowY=0`, `3-filtered.png` `94,795 B` `1280×876` `MAD 0.39/255` `methBottom=859/876`, total `337,072 B` / `329.2 KiB`, visually verified full + 380px + 1:1 zoom, `0` JS errors, `0` horizontal overflow); `dossier_matches` **PASS** (byte-identical to `buildDossier`, **`515,838 B` / `503.7 KiB`**, `text = 65,165 / 65,536 B`, `0` truncated, `3` images).
+  - Commit + bundle + kit check: single Rev3 commit on `master` (author `AbralDevv <94212582+AbralDevv@users.noreply.github.com>`); bundle target `/home/hatch/bounties/token-radar-01-rev3-transcripts.tar.gz`; kit check target `0` failed (excluding 5 at-submission checks) — see Rev3 final report for exact commit SHA, bundle SHA256, and kit-check tally. NOT pushed and NOT submitted (`can_submit: NO`).

diff --git a/README.md b/README.md
@@ -11,10 +11,10 @@ Entry for the [token-radar-01 bounty on make.fun](https://make.fun/bounty/token-
 Ranks pre-token protocols by implied token value, so a farmer can decide where a deposit is actually worth the gas:
 
 - **198-row board** (`board.json`) — 40 watchlist + 138 early sub-$50M + 20 above-floor parent-linked protocols, ranks 1–198, every row with an implied value and a 6-step costed farm plan.
-- **Fitted model, not a flat multiple** (`lib/model.ts`, `radar-3-fitted`) — snapshot-fitted Huber IRLS valuation (`delta=1.0`, `ridge=1.0`, TVL size elasticity `−0.5468`, base multiple `0.2204x` at `$50M`, shrunk category residuals `n>=5, k=12`) × L2 logistic 2-year token-launch odds (listed age in linear years + category token rate `k=16` + TVL + chains). All 758 snapshot protocols accounted for: 198 ranked + 416 live-token calibration peers (119 non-CEX valuation comps) + 144 excluded pre-token (102 product-rule + 42 CEX) = 758, 0 unaccounted.
-- **Held-out tested, twice** — valuation walk-forward (`n=44`) **`x2.41`** vs `x4.14` flat (`1.72×` tighter, `gmX x4.77`, `R² +0.060`), leave-one-out (`n=119`) **`x3.39`** vs `x4.96` (`1.46×` tighter, `gmX x4.69`, `R² +0.126`, 50% PI `[x0.30, x3.44]`); launch-odds (`442` clean protocols) LOO **AUC `0.746`** (Brier `0.2016` vs `0.2484` base, `−18.8%`), walk-forward (`n=192`) **AUC `0.635`** (Brier `0.2086` vs `0.2870` base, `−27.3%`). Rejected on blind valuation tests: `+7d TVL growth` (`WF x2.46 / LOO x3.38`), `+Age-in-Val` (`WF x3.04 / LOO x3.30`, kept in Odds), `+Multi-chain` (`WF x2.61 / LOO x3.47`, kept in Odds), plus Huber `delta=0.35–0.60`/LAD, chain-ecosystem residuals, and 1-knot log-TVL splines (see `scripts/heldout.mjs`, 10/10 assertions pass).
-- **Costed farm verdicts (Gas-Basis + Capital Drag transparency)** — per row: deposit tiers (`0.5× / 1× / 2.5×`), chain gas range, hold days, exact active hours, gross EV, net `$/hr`, break-even deposit (relative `10×` deposit Gas-Blocked rule), plus transparent 4.5% APR capital drag & `idle_capital_net_usd`; **59 Strong +EV / 58 Positive +EV / 72 Scale Needed / 9 Gas-Blocked** at base tier (`117` `+EV` farmable rows).
-- **Offline dashboard** (`dashboard/`) — 4 files, **64,249 B** total (`64,590 / 65,536 B` dossier text, `0` truncated, `0-model.js` first alphabetically), zero network references; `dossier.json` **`515,335 B` (`503.3 KiB`)**: cover with integrity + held-out strips, 4 tabs (Pre-Token Radar 198, Watchlist 40, +EV Farmable 117, Live-Token Comps 119), detail drawer with per-row breakdown & all 6 farm steps visible, model sandbox.
+- **Fitted model, not a flat multiple** (`lib/model.ts`, `radar-4-fitted`) — snapshot-fitted Huber IRLS valuation (`delta=1.0`, `ridge=1.0`, `era_inter_ridge=20`, TVL size elasticity `−0.4848` pre-2023/undated + `−0.1091` post-`2023-01-01` = `−0.5939` post-2023, base multiple `0.2175x` at `$50M`, shrunk category residuals `n>=5, k=12`) × L2 logistic 2-year token-launch odds (listed age in linear years + category token rate `k=16` + TVL + chains). All 758 snapshot protocols accounted for: 198 ranked + 416 live-token calibration peers (119 non-CEX valuation comps) + 144 excluded pre-token (102 product-rule + 42 CEX) = 758, 0 unaccounted.
+- **Held-out tested, twice** — valuation walk-forward (`n=44`) **`x2.41`** (`2.4125`) vs `x4.14` flat (`1.72×` tighter, `gmX x4.77`, `R² +0.060`), leave-one-out (`n=119`) **`x3.33`** (`3.3254`) vs `x4.96` (`1.49×` tighter, `gmX x4.67`, `R² +0.129`, 50% PI `[x0.30, x3.45]`); launch-odds (`442` clean protocols) LOO **AUC `0.746`** (Brier `0.2016` vs `0.2484` base, `−18.8%`), walk-forward (`n=192`) **AUC `0.635`** (Brier `0.2086` vs `0.2870` base, `−27.3%`). Rejected on blind valuation tests: `+7d TVL growth` (`WF x2.45 / LOO x3.35`), `+Age-in-Val` (`WF x2.99 / LOO x3.28`, kept in Odds), `+Multi-chain` (`WF x2.58 / LOO x3.29`, kept in Odds), plus `730d(as_of)×TVL` (non-chronological cutoff), Huber `delta=0.35–0.60`/LAD, chain-ecosystem residuals, 1-knot log-TVL splines, and kNN/Isotonic/GBM/RF/ensembles (see `scripts/heldout.mjs`, 10/10 assertions pass).
+- **Costed farm verdicts (Gas-Basis + Capital Drag transparency)** — per row: deposit tiers (`0.5× / 1× / 2.5×`), chain gas range, hold days, exact active hours, gross EV, net `$/hr`, break-even deposit (relative `10×` deposit Gas-Blocked rule), plus transparent 4.5% APR capital drag & `idle_capital_net_usd`; **60 Strong +EV / 60 Positive +EV / 69 Scale Needed / 9 Gas-Blocked** at base tier (`120` `+EV` farmable rows).
+- **Offline dashboard** (`dashboard/`) — 4 files, **64,824 B** total (`65,165 / 65,536 B` dossier text, `0` truncated, `0-model.js` first alphabetically), zero network references; `dossier.json` **`515,838 B` (`503.7 KiB`)**: cover with integrity + held-out strips, 4 tabs (Pre-Token Radar 198, Watchlist 40, +EV Farmable 120, Live-Token Comps 119), detail drawer with per-row breakdown & all 6 farm steps visible, model sandbox.
 
 ## Run it
 
@@ -29,7 +29,7 @@ Node 22+, zero dependencies, zero network, deterministic — two fresh runs are 
 - `main.ts` — entrypoint; reads the kit snapshot, writes `/output`
 - `lib/model.ts` — valuation + odds + farm-verdict engine
 - `dashboard/` — static dashboard (`index.html`, `app.js`, `app.css`, `0-model.js`)
-- `screenshots/` — 3 real headless-Chromium renders of the live dashboard (`1280×800`, `1280×880`, `1280×876`; palette-optimized `337.1 KB` total)
+- `screenshots/` — 3 real headless-Chromium renders of the live dashboard (`1280×800`, `1280×880`, `1280×876`; palette-optimized `337.1 KB` / `329.2 KiB` total)
 - `scripts/heldout.mjs` — walk-forward / leave-one-out ablation tests
 - `vendor/makefun-board.ts` — kit board builder (unmodified)
 - `STATE.md` — build log, validation numbers, revision history
